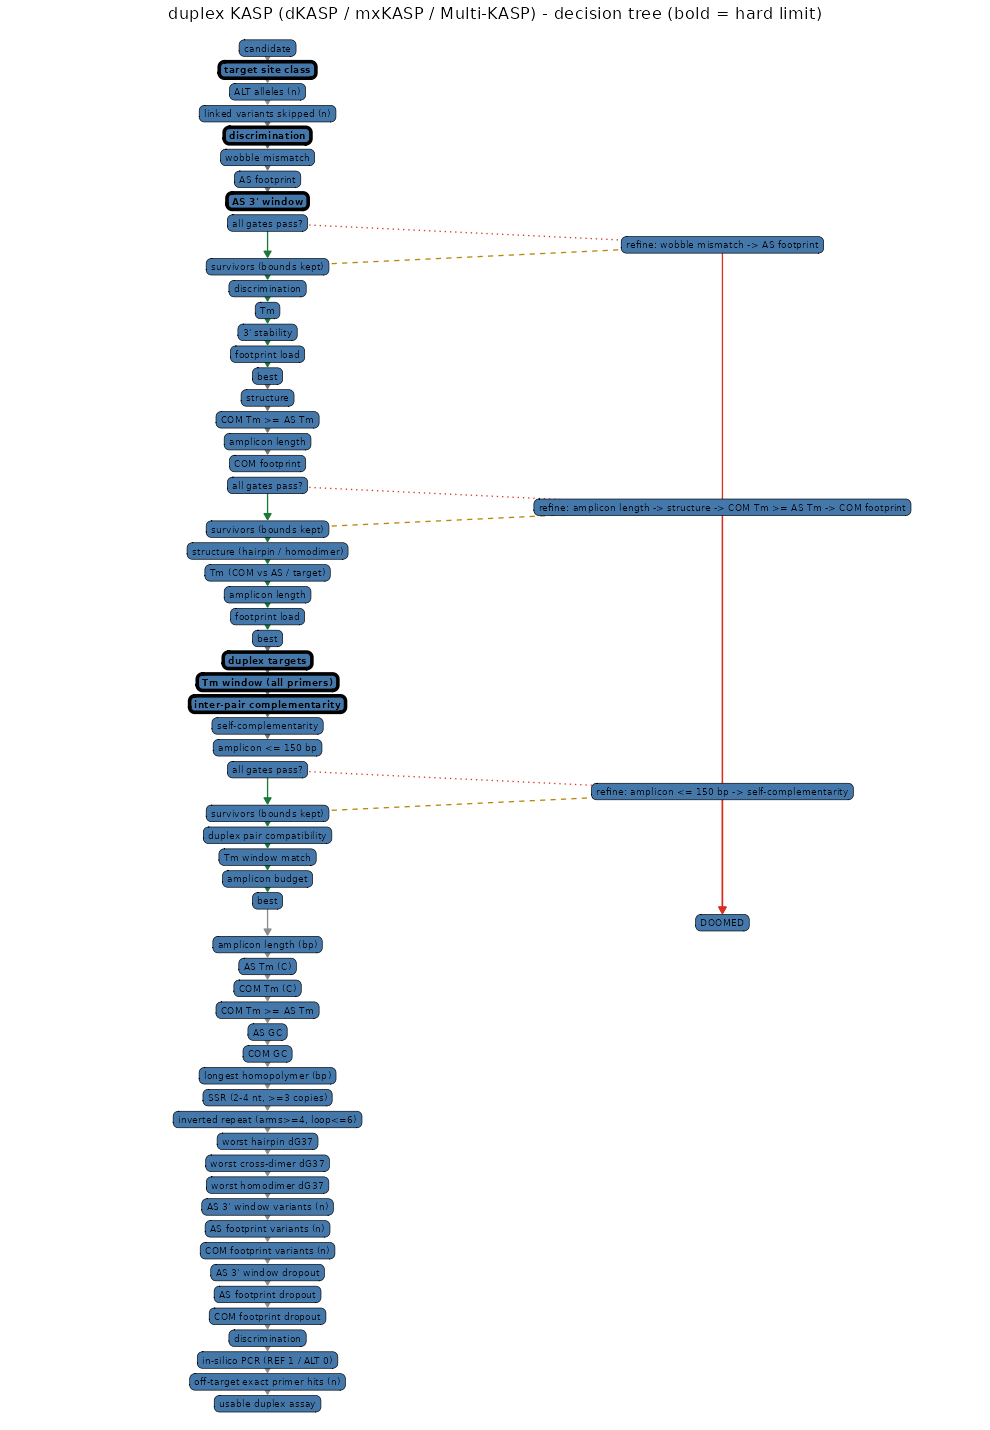
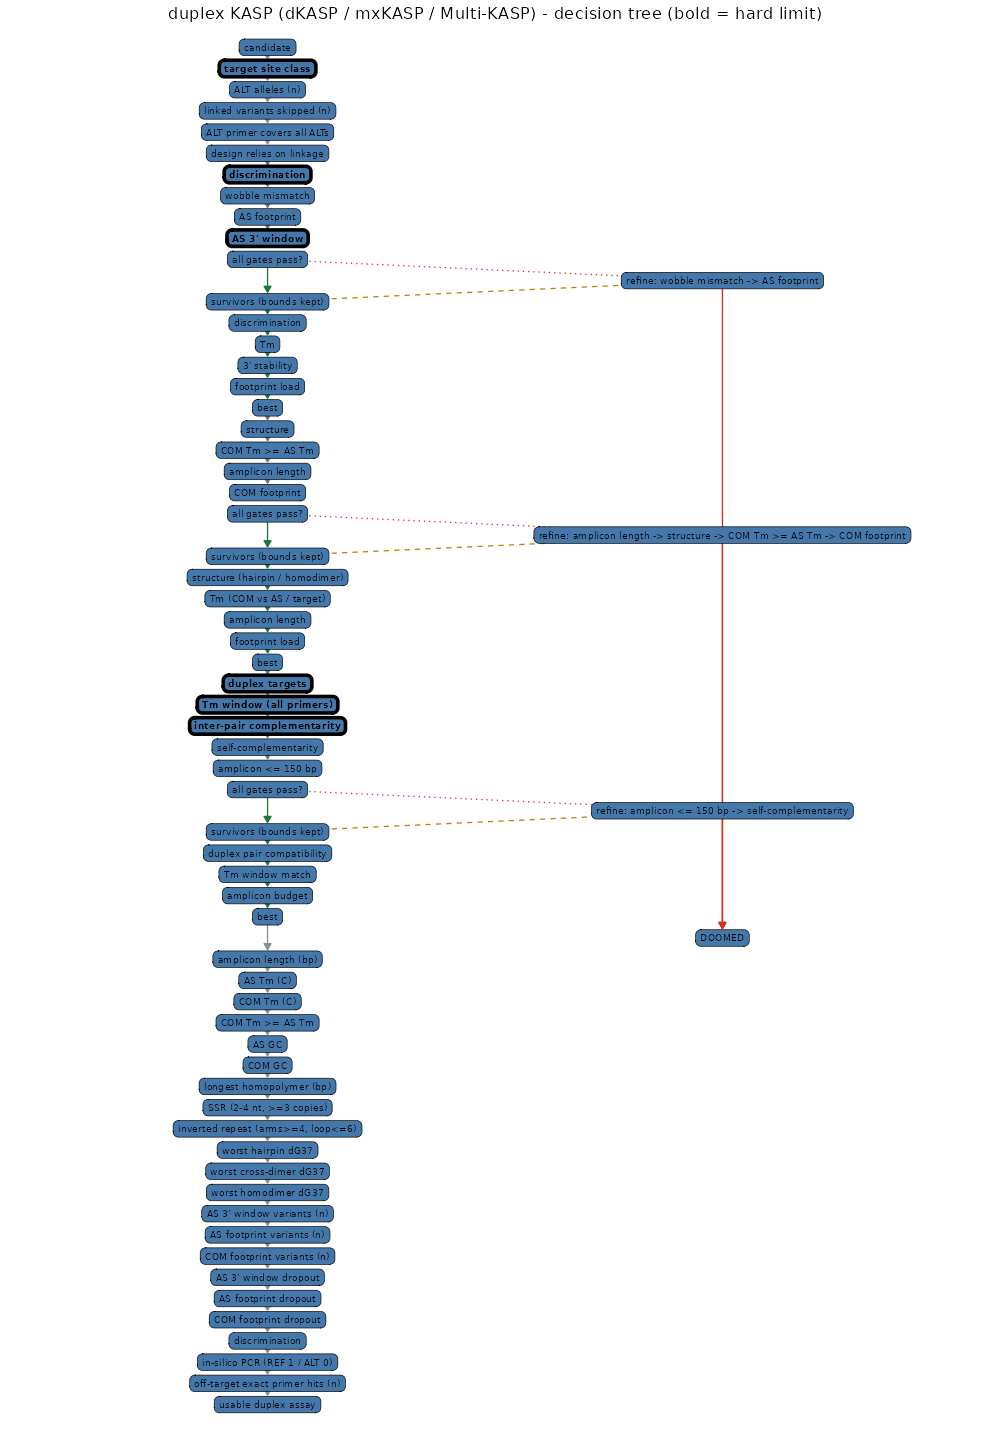
checks: ALT-primer coverage + linkage dependence as site criteria (tree picks them up); refresh decision trees

diff --git a/ROADMAP.md b/ROADMAP.md
@@ -221,7 +221,11 @@ A–P — реализовано или оценено; **Q** — локализ
       (`target site class`, `ALT alleles (n)`, `linked variants skipped (n)`) —
       вырожденные/мультиаллельные сайты и несшитые indel'ы видны в тумблерах;
       `plot_checks()` фасетит site/feature/alignment; `assemble_kasp_assay()` кладёт
-      в объект `assay$site` (`kasp_site_class`)
+      в объект `assay$site` (`kasp_site_class`). Плюс два новых site-критерия:
+      **«ALT primer covers all ALTs»** (вырожденный движок покрывает все ALT;
+      `site$alt_covered`) и **«design relies on linkage»** (дизайн держится только на
+      сцеплении) — видны и в тумблерах, и в дереве/тексте решения автоматически
+      (реестр один)
 - [x] **Дерево решения как данные:** `kasp_criteria()` (R/kasp_criteria.R) — единый реестр
       *всех* критериев (site-проверки, гейты и тиры отбора, приёмочные проверки). Из него
       генерируются узлы/рёбра (`kasp_decision_schema()`), граф (`kasp_decision_graph()`,

diff --git a/NEWS.md b/NEWS.md
@@ -36,6 +36,10 @@
 - **QC теперь гейтит отбор:** `assemble_kasp_assay(pair_screen =)` экранирует ведущие
   пары по off-target хитам, второму продукту in-silico PCR и инвертированным повторам и
   берёт первую чистую (раньше только предупреждал, оставляя «ok»-ассей с дублем ПЦР).
+- **Новые факты сайта — в проверках и дереве:** `kasp_design_checks()` получил два
+  site-критерия — «ALT primer covers all ALTs» (вырожденный движок покрывает все ALT) и
+  «design relies on linkage» (дизайн держится только на сцеплении); из одного реестра они
+  появляются и в тумблерах `plot_checks()`, и в дереве/тексте решения.
 - Сообщения `DOOMED` для AS-праймера разнесены: GC/Tm и гомополимер/SSR — разные тексты
   (раньше путались); каталог `ru` синхронизирован (131 сообщение).
 - `kasp_design_checks()`: новые критерии «AS 3' window variants (n)» и
